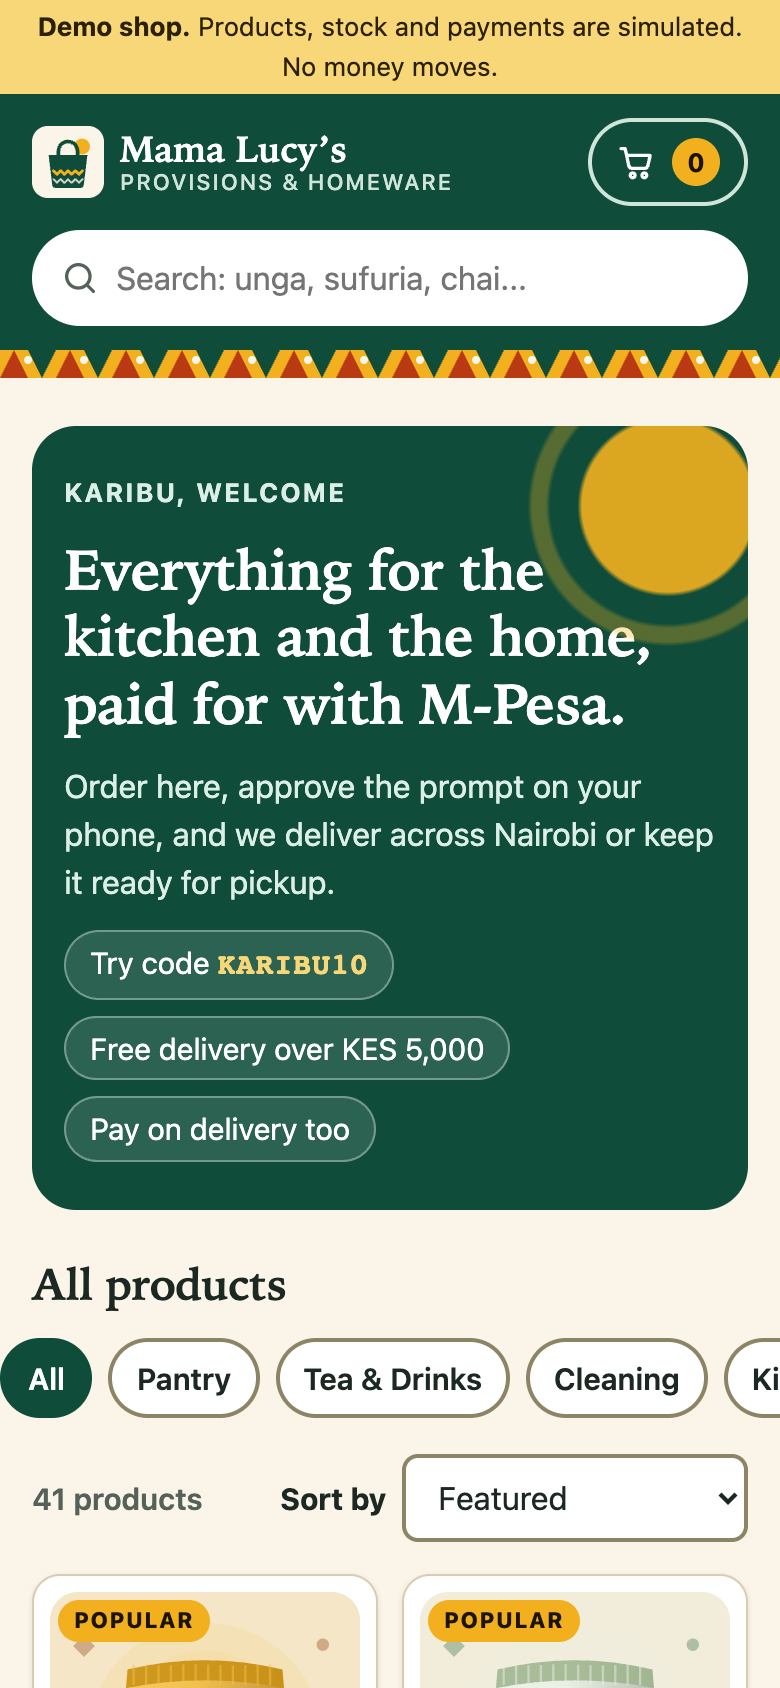
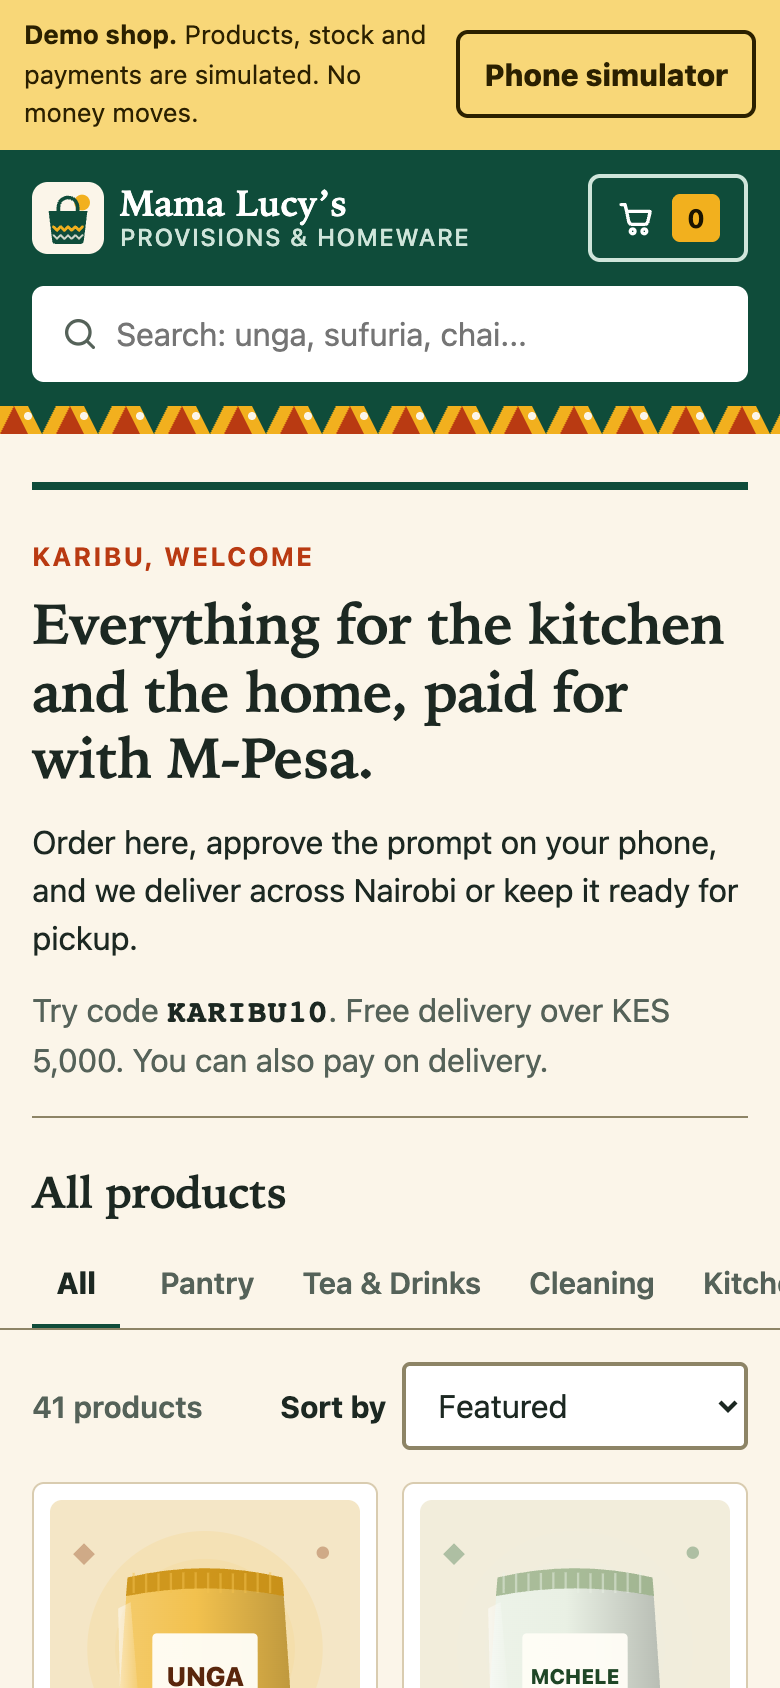
Refresh screenshots for the new filter, demo bar and simulator dialog; add design notes

diff --git a/README.md b/README.md
@@ -30,7 +30,7 @@ This project is a working answer to that: the payment is a state machine, every 
 - **No double charge, no duplicate order.** One order reference per cart, one idempotency key per attempt, double-click protection, and a rule that a new prompt is not offered until a status check shows nothing was paid.
 - **Recovery.** "Check payment status" looks the payment up by order reference and phone. A reload mid-payment resumes the same prompt.
 - **Pay on delivery** (or at pickup) as an alternative, receipts with print styles, order history, and order lookup by reference and phone.
-- **Phone simulator.** The yellow button in the corner opens demo controls: choose how the next payment ends, or play the customer on a simulated handset, so every state can be seen without a real phone.
+- **Phone simulator.** The button in the yellow bar at the top opens a dialog with demo controls (Escape closes it): choose how the next payment ends, or play the customer on a simulated handset, so every state can be seen without a real phone.
 - **PWA.** Installable, offline shell and catalogue, add-to-cart works offline, and checkout explains that it needs a connection.
 - **Accessibility.** Landmarks, skip link, focus moved on route change and into/out of the drawer, live regions for cart changes and payment status, keyboard operable, reduced motion, dark mode, axe checks with real colour contrast.
 
@@ -41,6 +41,15 @@ This project is a working answer to that: the payment is a state machine, every 
 | Wrong PIN | No answer, then recovery | Receipt |
 | --- | --- | --- |
 | <img src="docs/screenshots/05-stk-failed-wrong-pin.png" alt="M-Pesa did not accept the PIN, with Try again" width="220"> | <img src="docs/screenshots/06-stk-expired-recovery.png" alt="We have not heard back from M-Pesa, with Check payment status" width="220"> | <img src="docs/screenshots/07-receipt.png" alt="Printable receipt" width="320"> |
+
+## Design notes
+
+- Text is never smaller than 12px, including the lettering drawn on the product pictures. "Popular" and "New" are plain text above the product name, not badges.
+- The whole product card is one link; the name link alone is at least 44px tall. Header, footer and breadcrumb links are 44px tall too.
+- The category filter is a row of text tabs with the current one underlined and set in bold, and it is marked with `aria-pressed`.
+- The checkout summary stays in view beside the form from 960px up. Validation puts the message under each field and moves focus to the first one that needs fixing. No field shows a realistic sample phone number as a placeholder.
+- The phone simulator toggle sits in the demo bar, not over the page, so it cannot cover the Pay button or the footer links. The panel is a non-modal dialog with focus on open and on close.
+- Not verified: screen reader output (VoiceOver, NVDA, TalkBack). Axe and keyboard checks only.
 
 ## Quick start
 
